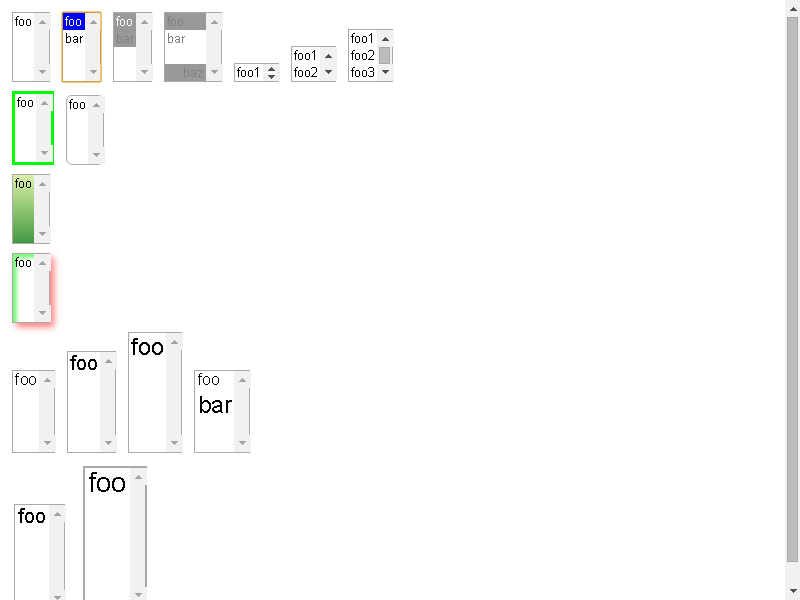
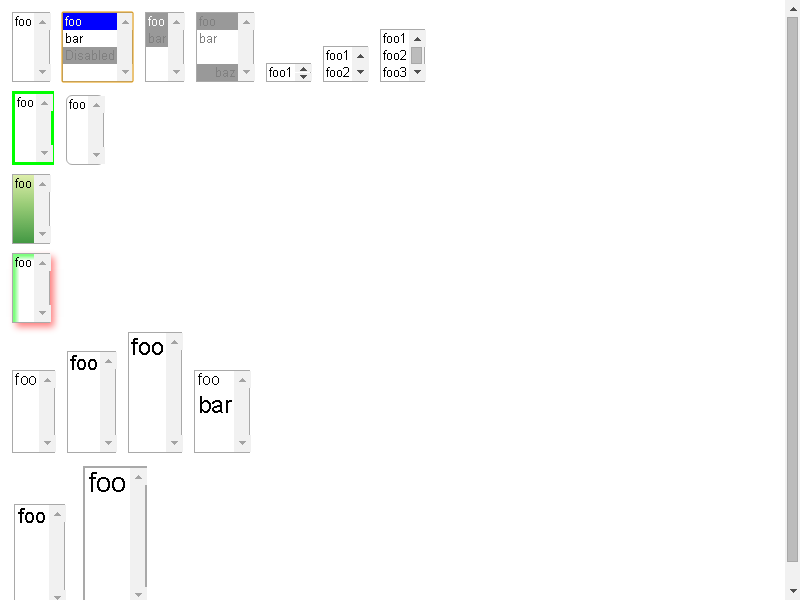
Fix a bug that it's hard to read selected disabled OPTION elements in focused SELECT elements.
This CL makes the background of selected disabled OPTIONs light gray.

The new behavior is not same as Google Chrome 42-, which showed colors same as
non-disabled OPTIONs. The new behavior is reasonable because it represents
"disabled" state correctly.

BUG=534265

Review URL: https://codereview.chromium.org/1359193004

Cr-Original-Commit-Position: refs/heads/master@{#350504}
Cr-Mirrored-From: https://chromium.googlesource.com/chromium/src
Cr-Mirrored-Commit: dae4cc3aa5051a8f5b7e584b1f5f791bb750c797

Changed region(s): [[0.0625, 0.0, 0.5312, 0.15]]

diff --git a/WebKit/Source/core/css/html.css b/WebKit/Source/core/css/html.css
@@ -808,6 +808,10 @@ select:-internal-list-box:focus option:checked {
     color: -internal-active-list-box-selection-text !important;
 }
 
+select:-internal-list-box:focus option:checked:disabled {
+    background-color: -internal-inactive-list-box-selection !important;
+}
+
 select:-internal-list-box option:checked {
     background-color: -internal-inactive-list-box-selection !important;
     color: -internal-inactive-list-box-selection-text !important;

diff --git a/WebKit/LayoutTests/fast/forms/select/listbox-appearance-basic.html b/WebKit/LayoutTests/fast/forms/select/listbox-appearance-basic.html
@@ -11,7 +11,7 @@ if (window.testRunner)
 </script>
 
 <select multiple><option>foo</option></select>
-<select multiple><option selected>foo</option><option>bar</option></select>
+<select multiple><option selected>foo</option><option>bar</option><option selected disabled>Disabled</option></select>
 <script>
 // autofocus makes the test timeout.
 document.querySelectorAll('select')[1].focus();
